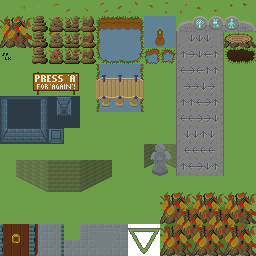
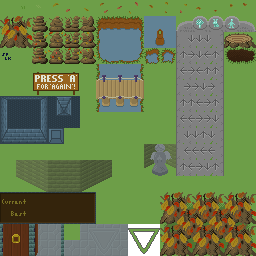
scorekeeping

Changed region(s): [[0.0, 0.75, 0.375, 0.875]]

diff --git a/src/game/main.c b/src/game/main.c
@@ -25,6 +25,7 @@ int egg_client_init() {
   if (font_add_image_resource(g.font,0x0020,RID_image_witchy_0020)<0) return -1;
   if ((g.texid_tiles=egg_texture_new())<1) return -1;
   
+  penance_load_hiscore();
   if (sprite_groups_init()<0) return -1;
   if (maps_reset(g.rom,g.romc)<0) return -1;
   
@@ -62,6 +63,7 @@ void egg_client_update(double elapsed) {
     struct menu *menu=g.menuv[g.menuc-1];
     menu->type->update(menu,elapsed);
   } else {
+    if (!g.gameover) g.playtime+=elapsed;
     sprite_group_update(GRP(UPDATE),elapsed);
     sprite_group_kill(GRP(DEATHROW));
     penance_check_navigation();
@@ -99,4 +101,50 @@ void egg_client_render() {
   }
   
   graf_flush(&g.graf);
+}
+
+/* High score.
+ */
+ 
+void penance_load_hiscore() {
+  g.besttime=999999.999;
+  char tmp[9]; // MM:SS.mmm
+  int tmpc=egg_store_get(tmp,sizeof(tmp),"besttime",8);
+  if (tmpc==9) {
+    if (
+      ((tmp[0]>='0')&&(tmp[0]<='9'))&&
+      ((tmp[1]>='0')&&(tmp[1]<='9'))&&
+      (tmp[2]==':')&&
+      ((tmp[3]>='0')&&(tmp[3]<='9'))&&
+      ((tmp[4]>='0')&&(tmp[4]<='9'))&&
+      (tmp[5]=='.')&&
+      ((tmp[6]>='0')&&(tmp[6]<='9'))&&
+      ((tmp[7]>='0')&&(tmp[7]<='9'))&&
+      ((tmp[8]>='0')&&(tmp[8]<='9'))
+    ) {
+      int min=((tmp[0]-'0')*10)+tmp[1]-'0';
+      int sec=((tmp[3]-'0')*10)+tmp[4]-'0';
+      int mil=((tmp[6]-'0')*100)+((tmp[7]-'0')*10)+tmp[8]-'0';
+      g.besttime=min*60+sec+(mil/1000.0);
+    }
+  }
+}
+
+void penance_save_hiscore() {
+  int mil=(int)(g.besttime*1000.0);
+  int sec=mil/1000; mil%=1000;
+  int min=sec/60; sec%=60;
+  if (min>99) min=sec=99;
+  char tmp[9]={
+    '0'+min/10,
+    '0'+min%10,
+    ':',
+    '0'+sec/10,
+    '0'+sec%10,
+    '.',
+    '0'+mil/100,
+    '0'+(mil/10)%10,
+    '0'+mil%10,
+  };
+  egg_store_set("besttime",8,tmp,9);
 }

diff --git a/src/game/sprite/types/sprite_scoreboard.c b/src/game/sprite/types/sprite_scoreboard.c
@@ -1,0 +1,48 @@
+#include "game/penance.h"
+
+struct sprite_scoreboard {
+  struct sprite hdr;
+};
+
+#define SPRITE ((struct sprite_scoreboard*)sprite)
+
+static void scoreboard_repr(struct egg_draw_tile *vtxv/*9*/,double time,int16_t dstx,int16_t dsty) {
+  if (time<0.0) time=0.0;
+  int mil=(int)(time*1000.0);
+  int sec=mil/1000; mil%=1000;
+  int min=sec/60; sec%=60;
+  if (min>99) min=sec=99;
+  vtxv[0].tileid=0xa5+min/10;
+  vtxv[1].tileid=0xa5+min%10;
+  vtxv[2].tileid=0xaf;
+  vtxv[3].tileid=0xa5+sec/10;
+  vtxv[4].tileid=0xa5+sec%10;
+  vtxv[5].tileid=0xaf; // There isn't a dot, so use two colons.
+  vtxv[6].tileid=0xa5+mil/100;
+  vtxv[7].tileid=0xa5+(mil/10)%10;
+  vtxv[8].tileid=0xa5+mil%10;
+  struct egg_draw_tile *vtx=vtxv;
+  int i=9; for (;i-->0;vtx++,dstx+=7) {
+    vtx->dstx=dstx;
+    vtx->dsty=dsty;
+    vtx->xform=0;
+  }
+}
+
+static void _scoreboard_render(struct sprite *sprite,int16_t addx,int16_t addy) {
+  graf_flush(&g.graf);
+  int16_t dstx=(int16_t)(sprite->x*TILESIZE)+addx-8;
+  int16_t dsty=(int16_t)(sprite->y*TILESIZE)+addy+2;
+  struct egg_draw_tile vtxv[18];
+  scoreboard_repr(vtxv,g.playtime,dstx,dsty);
+  scoreboard_repr(vtxv+9,g.besttime,dstx,dsty+12);
+  egg_draw_globals(0xe0c080ff,0xff);
+  egg_draw_tile(1,texcache_get_image(&g.texcache,sprite->imageid),vtxv,sizeof(vtxv)/sizeof(vtxv[0]));
+  egg_draw_globals(0,0xff);
+}
+
+const struct sprite_type sprite_type_scoreboard={
+  .name="scoreboard",
+  .objlen=sizeof(struct sprite_scoreboard),
+  .render=_scoreboard_render,
+};

diff --git a/src/game/sprite/sprite.h b/src/game/sprite/sprite.h
@@ -127,6 +127,7 @@ extern const struct sprite_type sprite_type_dualephant;
 extern const struct sprite_type sprite_type_missile;
 extern const struct sprite_type sprite_type_treadle;
 extern const struct sprite_type sprite_type_lock;
+extern const struct sprite_type sprite_type_scoreboard;
 
 // ids get assigned in this order. Use the same as the ^ declarations above.
 #define FOR_EACH_SPRITE_TYPE \
@@ -141,7 +142,8 @@ extern const struct sprite_type sprite_type_lock;
   _(dualephant) \
   _(missile) \
   _(treadle) \
-  _(lock)
+  _(lock) \
+  _(scoreboard)
 
 const struct sprite_type *sprite_type_by_id(int id);
 

diff --git a/src/game/penance.h b/src/game/penance.h
@@ -61,6 +61,8 @@ extern struct globals {
   int menuc;
   uint8_t candlev[CANDLE_COUNT]; // Not going to generalize global state, there's so little of it.
   int gameover; // Nonzero after we enter the triangle with all candles lit. Outtro animation.
+  double playtime;
+  double besttime;
 } g;
 
 int penance_load_map(int mapid);
@@ -72,5 +74,8 @@ int penance_navigate(int dx,int dy);
 int penance_check_navigation();
 
 void penance_gameover();
+
+void penance_load_hiscore();
+void penance_save_hiscore();
 
 #endif

diff --git a/src/game/game.c b/src/game/game.c
@@ -129,6 +129,10 @@ int penance_check_navigation() {
  
 void penance_gameover() {
   g.gameover=1;
+  if (g.playtime<g.besttime) {
+    g.besttime=g.playtime;
+    penance_save_hiscore();
+  }
   egg_play_song(RID_song_take_wing,0,0);
   if (GRP(HERO)->spritec>=1) {
     struct sprite *hero=GRP(HERO)->spritev[0];

diff --git a/src/game/menu/menu_type_farewell.c b/src/game/menu/menu_type_farewell.c
@@ -23,7 +23,7 @@ static const struct farewell_subtitle {
   { 2.0,""},
   { 7.0,"Code, graphics, music\n  AK Sommerville"},
   { 2.0,""},
-  {10.0,"Developed in 9 days for\nGDEX Game Jam 2024"},
+  {10.0,"Written in 9 days for\nGDEX Game Jam 2024"},
   { 2.0,""},
   { 7.0,"Thanks for playing!\n-AK and Dot"},
 };

diff --git a/src/game/menu/menu_type_hello.c b/src/game/menu/menu_type_hello.c
@@ -40,6 +40,7 @@ static void _hello_input(struct menu *menu,int input,int pvinput) {
     memset(g.candlev,0,sizeof(g.candlev));
     sprite_group_kill(GRP(HERO));
     maps_reset(g.rom,g.romc);
+    g.playtime=0.0;
     penance_load_map(1);
     egg_play_song(RID_song_doors_without_walls,0,1);
   }

diff --git a/README.md b/README.md
@@ -12,10 +12,11 @@ Required:
 - [x] Tints are broken. In web, the highlighted triangle is green. Should be yellow.
 - [x] Temple interior.
 - [ ] Placeholder graphics, all over the place.
+- [x] Speed clock and high score.
 - [ ] Don't put anything burnable on the borders.
 - [ ] Sound effects.
 - [ ] Fireworks when transforming to/from animal.
-- [ ] Crow. Or maybe drop it. Is there any need for a crow's assistance?
+- [ ] Crow. Or maybe drop it. Is there any need for a crow's assistance? ...have somebody play at the review session Wednesday
 - [ ] Hello: Roll in credits after a delay?
 - [ ] Needs an extra click to start on Itch, what gives?
 - [ ] Pics and such for Itch page.
